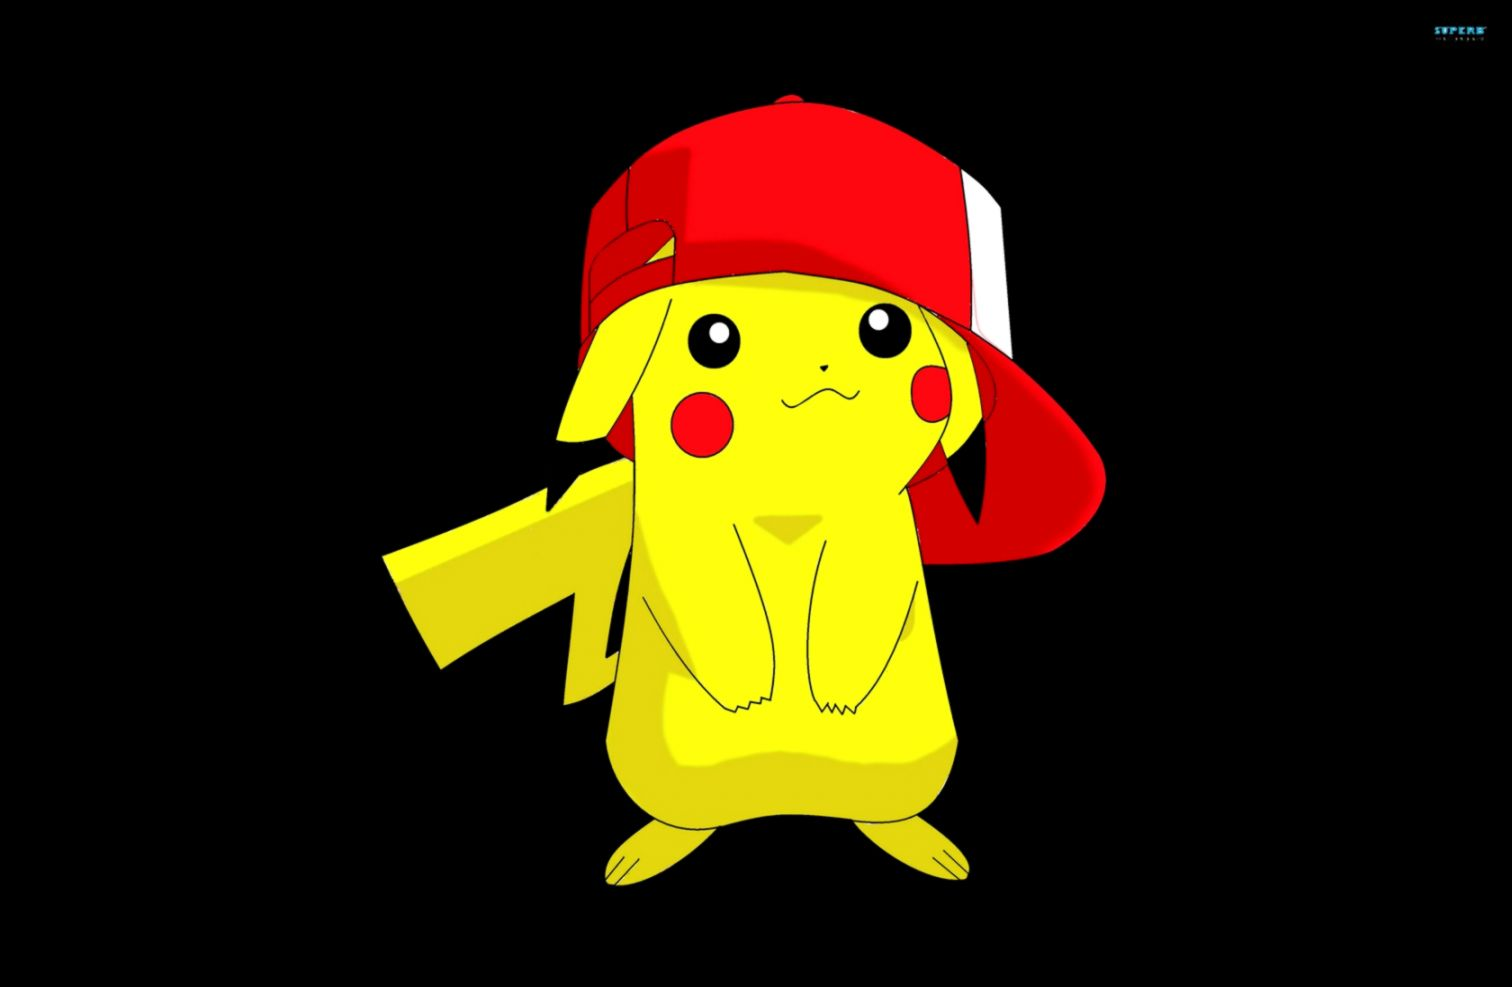
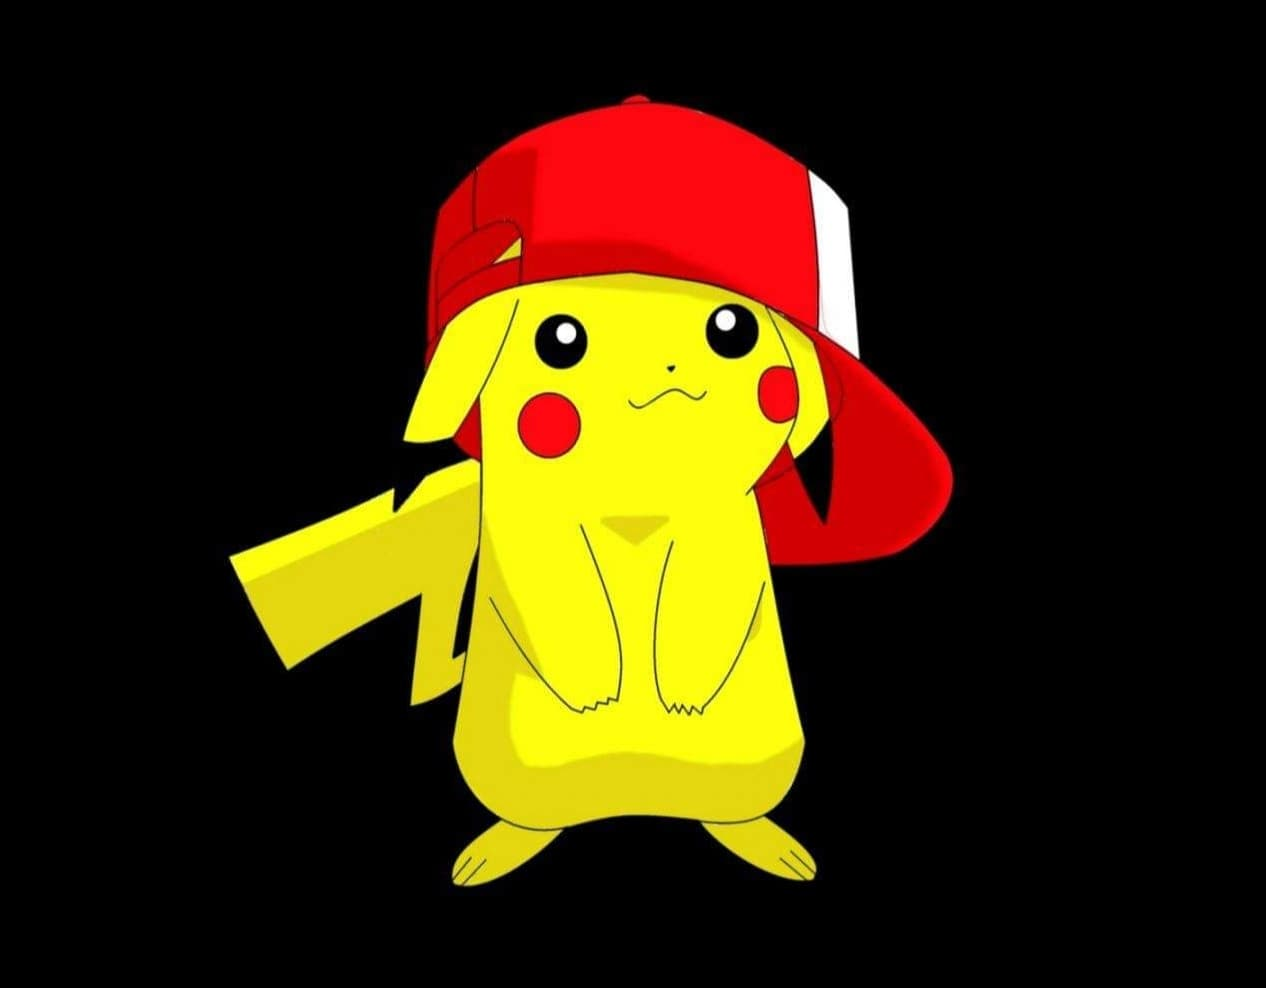
recorté la imágen de pikachu

Changed region(s): [[0.1848, 0.0912, 0.7701, 0.9119], [0.955, 0.0, 0.9858, 0.0608]]

diff --git a/src/style.css b/src/style.css
@@ -73,12 +73,12 @@ margin: 0%;
     height: 80%;
     flex-direction: row;
     flex-wrap: wrap;
-    justify-content: center;
+    justify-content: space-around;
     overflow: scroll;
     list-style: none;
 }
 
-#lista ul li{
+li{
   margin: 10px;
   width: 29%;
   text-align: center;

diff --git a/src/index.html b/src/index.html
@@ -35,7 +35,7 @@
     </center>
 
     <section class="lista_de_pokemones">
-      <div id="mostrando_lista_pokemones" class="col-lg-3">
+      <div id="mostrando_lista_pokemones">
       </div>
     </section>
 
